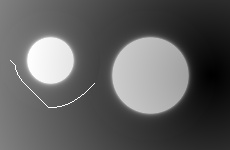
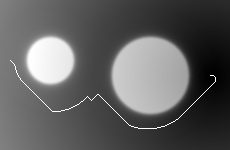
Prob 2 Up and Running
Prob 2 works (was just a smoothing issue) needs visuals. Started a
paper, so we can throw up any screenshots and the like as we get them

diff --git a/Project 2/Problem 2/fieldNavigation.py b/Project 2/Problem 2/fieldNavigation.py
@@ -7,7 +7,6 @@ Created on Tue Nov 04 21:13:07 2014
 
 import math
 import numpy as np
-from matplotlib import pyplot as plt
 from util import *
 import cv2
 
@@ -22,6 +21,7 @@ class FieldMapGenerator:
     def computeField(self):
         self.attractionField()
         self.repulsionField()
+        self.map=cv2.GaussianBlur(self.map,(5,5),0)
         return self.map
     
     #to start this will just compute linear distance function (Quadradic to be added later)
@@ -35,27 +35,36 @@ class FieldMapGenerator:
         for x in range(len(self.map[0])):
             for y in range(len(self.map)):
                 hitSomething,hitWhat= self.collisionCheck((x,y))
-                if not hitSomething:
+                if hitSomething:
                     #I believe the factor v here is up to me, try a couple
                     v=4000
-                    if hitWhat.distanceTo((x,y))<=0:
-#                        print "255"
-                        self.map[y][x]+=255
-                    else:
-                        
-                        if .5*v*pow(1/hitWhat.distanceTo((x,y))-1/self.minDistance,2)>255:
-#                            print 255
-                            self.map[y][x]+=255
+                    highestPoint=0
+                    for o in hitWhat:
+                    
+                        if o.distanceTo((x,y))<=0:
+    #                        print "255"
+                            highestPoint=255
                         else:
-#                            print .5*v*pow(1/hitWhat.distanceTo((x,y))-1/self.minDistance,2)
-                            self.map[y][x]+=.5*v*pow(1/hitWhat.distanceTo((x,y))-1/self.minDistance,2)
+                            
+                            if .5*v*pow(1/o.distanceTo((x,y))-1/self.minDistance,2)>255:
+    #                            print 255
+                                highestPoint=255
+                            else:
+    #                            print .5*v*pow(1/hitWhat.distanceTo((x,y))-1/self.minDistance,2)
+                                num=.5*v*pow(1/o.distanceTo((x,y))-1/self.minDistance,2)
+                                if num>highestPoint:
+                                    highestPoint=num
+                    self.map[y][x]+=highestPoint
         return self.map
         
     def collisionCheck(self, point):
+        o=[]
         for obs in self.obstacles:
             if obs.nearCheck(point,self.minDistance):
-                return False,obs
-        return True, None
+                o.append(obs)
+        if len(o)>=1:
+            return True,o
+        return False, None
     
     #Leave this here for a moment to normalize for visualization purposes
     def fit(self, array, nmax):
@@ -122,7 +131,7 @@ class Agent:
                 if self.curPos[1]+y>=0 and self.curPos[1]+y< self.mapSize[1] and self.curPos[0]+x>=0 and self.curPos[0]+x<= self.mapSize[0] and fmap[self.curPos[1]+y][self.curPos[0]+x]<best:
                     best=fmap[self.curPos[1]+y][self.curPos[0]+x]
                     bestPos=(self.curPos[0]+x,self.curPos[1]+y)
-        print bestPos
+#        print bestPos
         return bestPos
                 
     
@@ -146,6 +155,7 @@ def fit(array, nmax):
     
 #TESTING AREA
 obstacles=[CircleObstacle(50,60,20),CircleObstacle(150,75,35)]
+#,CircleObstacle(150,130,10)
 start=(10,60)
 goal=(210,75)
 mapSize=(230,150)
@@ -156,9 +166,11 @@ a=Agent(start,goal,mapSize,obstacles,minDistance)
 #img=FMG.computeField()
 plan,fmap=a.run()
 fmap=fit(fmap,255)
-print plan
+print len(plan)
 for elt in plan:
     fmap[elt[1]][elt[0]]=255#-fmap[elt[1]][elt[0]]
 
 
+
 cv2.imwrite("test.jpg",fmap)
+
